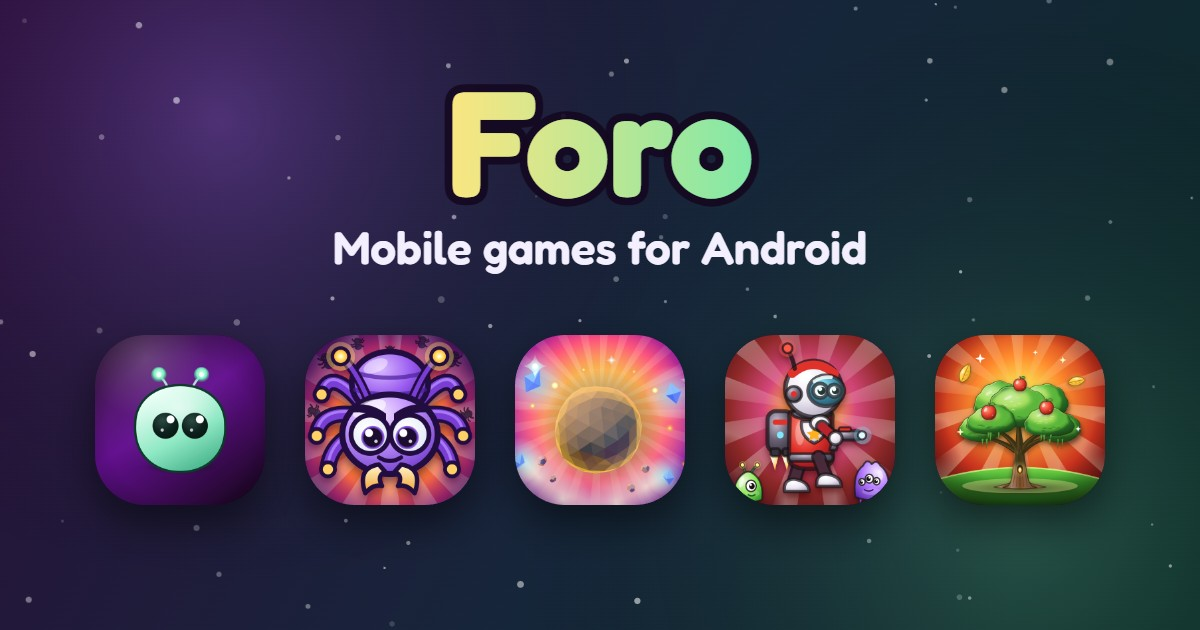
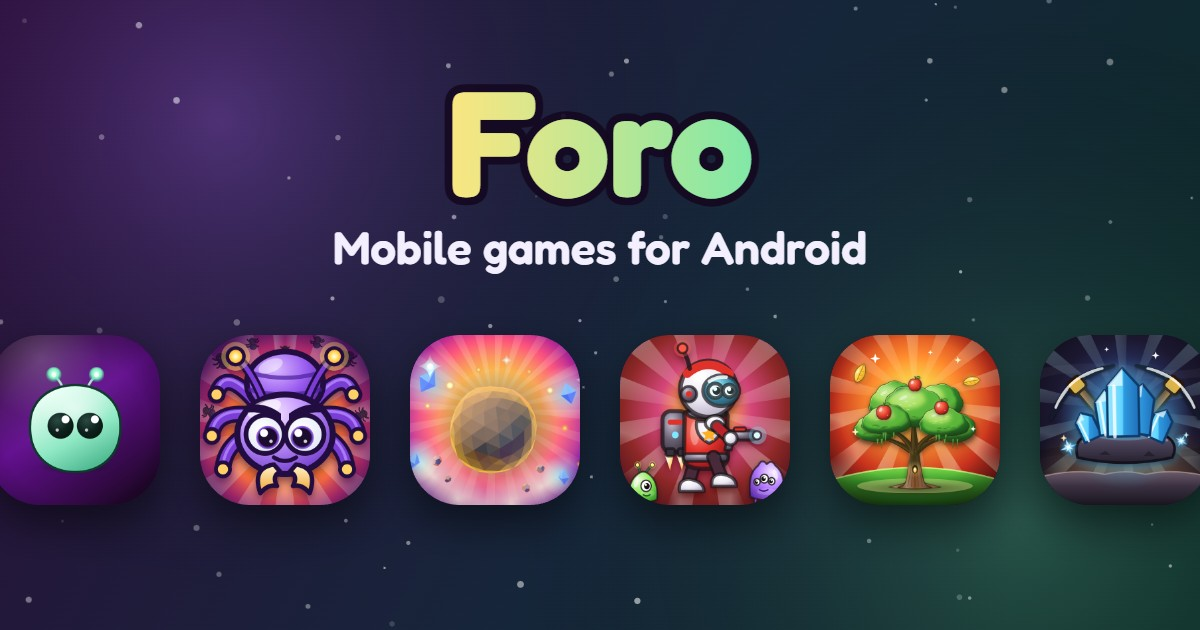
Add files via upload

Changed region(s): [[0.0, 0.5127, 1.0, 0.8143]]

diff --git a/index.html b/index.html
@@ -4,7 +4,7 @@
   <meta charset="utf-8">
   <meta name="viewport" content="width=device-width, initial-scale=1">
   <title>Foro - Mobile games for Android</title>
-  <meta name="description" content="Colourful free mobile games for Android: Tapvolution (idle evolution clicker), Bugvalanche (tower defense), Tiltstone (tilt-to-roll arcade), Mobmelt (survivor action) and Worldroot (idle tree clicker). Ads are always optional.">
+  <meta name="description" content="Colourful free mobile games for Android: Tapvolution (idle evolution clicker), Bugvalanche (tower defense), Tiltstone (tilt-to-roll arcade), Mobmelt (survivor action), Worldroot (idle tree clicker) and Aurvel (idle mining clicker). Ads are always optional.">
   <link rel="canonical" href="https://foro1998.github.io/">
   <meta name="theme-color" content="#120a26">
   <link rel="icon" type="image/svg+xml" href="/favicon.svg">
@@ -12,7 +12,7 @@
   <meta property="og:type" content="website">
   <meta property="og:site_name" content="Foro">
   <meta property="og:title" content="Foro - Mobile games for Android">
-  <meta property="og:description" content="Tapvolution, Bugvalanche, Tiltstone, Mobmelt and Worldroot: colourful free Android games. Ads are always optional.">
+  <meta property="og:description" content="Tapvolution, Bugvalanche, Tiltstone, Mobmelt, Worldroot and Aurvel: colourful free Android games. Ads are always optional.">
   <meta property="og:url" content="https://foro1998.github.io/">
   <meta property="og:image" content="https://foro1998.github.io/og-image.jpg">
   <meta property="og:image:width" content="1200">
@@ -96,7 +96,7 @@
     }
     .hero p { margin: 0 auto; max-width: 40rem; color: var(--muted); font-size: clamp(1.02rem, 2.2vw, 1.22rem); }
     .hero__icons { display: flex; flex-wrap: wrap; justify-content: center; gap: 16px; margin-top: 34px; }
-    @media (max-width: 480px) { .hero__icons { gap: 12px; } .hero__icons img { width: 56px; } }
+    @media (max-width: 480px) { .hero__icons { gap: 10px; } .hero__icons img { width: 48px; } }
     .hero__icons img {
       width: clamp(64px, 12vw, 92px); height: auto; aspect-ratio: 1; border-radius: 24%;
       box-shadow: 0 14px 30px rgba(0, 0, 0, 0.45), 0 0 0 2px rgba(255, 255, 255, 0.12);
@@ -107,6 +107,7 @@
     .hero__icons a:nth-child(3) img { transform: rotate(5deg); }
     .hero__icons a:nth-child(4) img { transform: translateY(-8px) rotate(-4deg); }
     .hero__icons a:nth-child(5) img { transform: rotate(-5deg); }
+    .hero__icons a:nth-child(6) img { transform: translateY(-6px) rotate(4deg); }
     .hero__icons a:hover img { transform: translateY(-8px) scale(1.06); }
     .cta { display: flex; justify-content: center; flex-wrap: wrap; gap: 12px; margin-top: 30px; }
 
@@ -222,13 +223,14 @@
     <section class="hero">
       <div class="wrap">
         <h1>Colourful games for your phone</h1>
-        <p>Free Android games: idle clicking, tower defense, tilt-to-roll arcade, survivor action and a tree that grows into a world. Ads are always optional, only when you choose to watch one for a reward.</p>
+        <p>Free Android games: idle clicking and mining, tower defense, tilt-to-roll arcade and survivor action. Ads are always optional, only when you choose to watch one for a reward.</p>
         <div class="hero__icons" aria-hidden="true">
           <a tabindex="-1" href="#tapvolution"><img src="/tapvolution-icon.webp" alt="" width="92" height="92"></a>
           <a tabindex="-1" href="#bugvalanche"><img src="/bugvalanche-icon.webp" alt="" width="92" height="92"></a>
           <a tabindex="-1" href="#tiltstone"><img src="/tiltstone-icon.webp" alt="" width="92" height="92"></a>
           <a tabindex="-1" href="#mobmelt"><img src="/mobmelt-icon.webp" alt="" width="92" height="92"></a>
           <a tabindex="-1" href="#worldroot"><img src="/worldroot-icon.webp" alt="" width="92" height="92"></a>
+          <a tabindex="-1" href="#aurvel"><img src="/aurvel-icon.webp" alt="" width="92" height="92"></a>
         </div>
         <div class="cta">
           <a class="btn btn--gold" href="#games">See the games</a>
@@ -240,7 +242,7 @@
     <section id="games">
       <div class="wrap">
         <h2 class="section">Games</h2>
-        <p class="section-sub">Five games, five different ways to play.</p>
+        <p class="section-sub">Six games, six different ways to play.</p>
 
         <div class="games">
           <!--
@@ -322,7 +324,7 @@
           </article>
 
           <!-- Tiltstone -->
-          <article class="game" id="tiltstone" data-status="soon">
+          <article class="game" id="tiltstone" data-status="live">
             <div class="game__art">
               <img class="game__img" src="/tiltstone-card.webp" alt="Tiltstone: a low-poly boulder glowing in front of bright rays" width="1024" height="500" loading="lazy">
               <img class="game__icon" src="/tiltstone-icon.webp" alt="Tiltstone icon" width="78" height="78">
@@ -431,6 +433,43 @@
               </div>
             </div>
           </article>
+
+          <!-- Aurvel -->
+          <article class="game" id="aurvel" data-status="soon">
+            <div class="game__art">
+              <img class="game__img" src="/aurvel-card.webp" alt="Aurvel: a mountain cut open to show a kingdom of lantern-lit rooms under a glowing crystal peak" width="1024" height="500" loading="lazy">
+              <img class="game__icon" src="/aurvel-icon.webp" alt="Aurvel icon" width="78" height="78">
+            </div>
+            <div class="game__body">
+              <div class="game__head">
+                <h3>Aurvel</h3>
+                <span class="badge badge--live">Out now</span>
+                <span class="badge badge--soon">Coming soon</span>
+              </div>
+              <ul class="tags"><li>Idle clicker</li><li>Mining</li><li>Plays offline</li></ul>
+              <p class="desc">Tap the glowing vein and dig one lantern-lit room into a kingdom inside the mountain. Hire helpers who dig for you, even while you're away.</p>
+              <ul class="facts">
+                <li>24 helpers, from miners to underground railways</li>
+                <li>8 epochs and 40 fully furnished rooms</li>
+                <li>18 upgrades and 6 new mountains to found</li>
+                <li>Available in 8 languages</li>
+              </ul>
+              <div class="shots" aria-label="Aurvel screenshots">
+                <img src="/aurvel-shot-1.webp" alt="Aurvel screenshot 1" width="360" height="640" loading="lazy" decoding="async">
+                <img src="/aurvel-shot-2.webp" alt="Aurvel screenshot 2" width="360" height="640" loading="lazy" decoding="async">
+                <img src="/aurvel-shot-3.webp" alt="Aurvel screenshot 3" width="360" height="640" loading="lazy" decoding="async">
+                <img src="/aurvel-shot-4.webp" alt="Aurvel screenshot 4" width="360" height="640" loading="lazy" decoding="async">
+              </div>
+              <div class="game__actions">
+                <a class="btn btn--gold btn--play" href="https://play.google.com/store/apps/details?id=com.aurvel.game">
+                  <svg viewBox="0 0 24 24" aria-hidden="true"><path fill="currentColor" d="M5 3.2v17.6c0 .7.8 1.1 1.4.7l14-8.8c.6-.4.6-1.2 0-1.6L6.4 2.5C5.8 2.1 5 2.5 5 3.2z"/></svg>
+                  <span>Get it on Google Play</span>
+                </a>
+                <span class="btn btn--soon" aria-disabled="true">Coming soon on Google Play</span>
+                <a class="btn btn--ghost" href="https://foro1998.github.io/aurvel-privacy/">Privacy policy</a>
+              </div>
+            </div>
+          </article>
         </div>
       </div>
     </section>
@@ -459,6 +498,7 @@
           <li><a href="https://foro1998.github.io/tiltstone-privacy/"><span>Privacy policy:</span> Tiltstone</a></li>
           <li><a href="https://foro1998.github.io/mobmelt-privacy/"><span>Privacy policy:</span> Mobmelt</a></li>
           <li><a href="https://foro1998.github.io/worldroot-privacy/"><span>Privacy policy:</span> Worldroot</a></li>
+          <li><a href="https://foro1998.github.io/aurvel-privacy/"><span>Privacy policy:</span> Aurvel</a></li>
         </ul>
       </div>
     </section>
